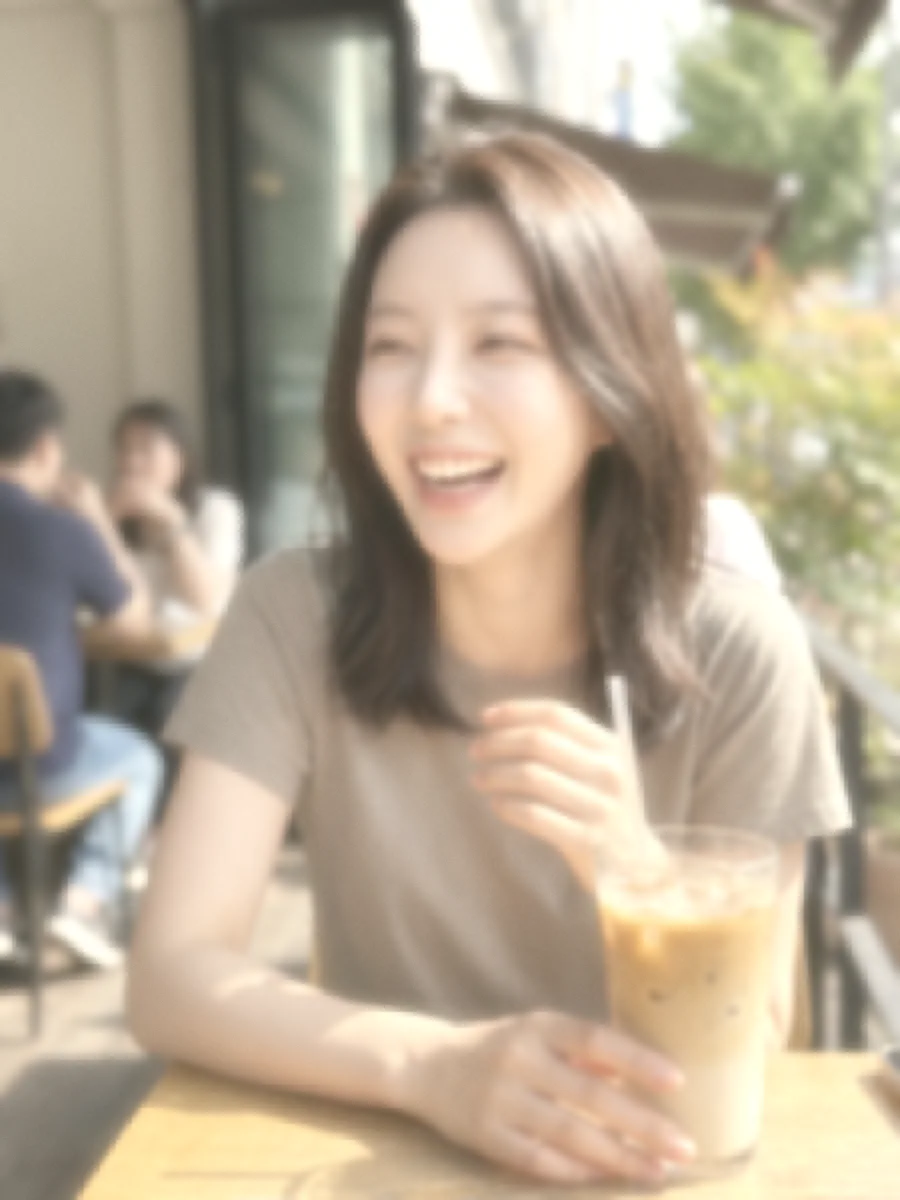
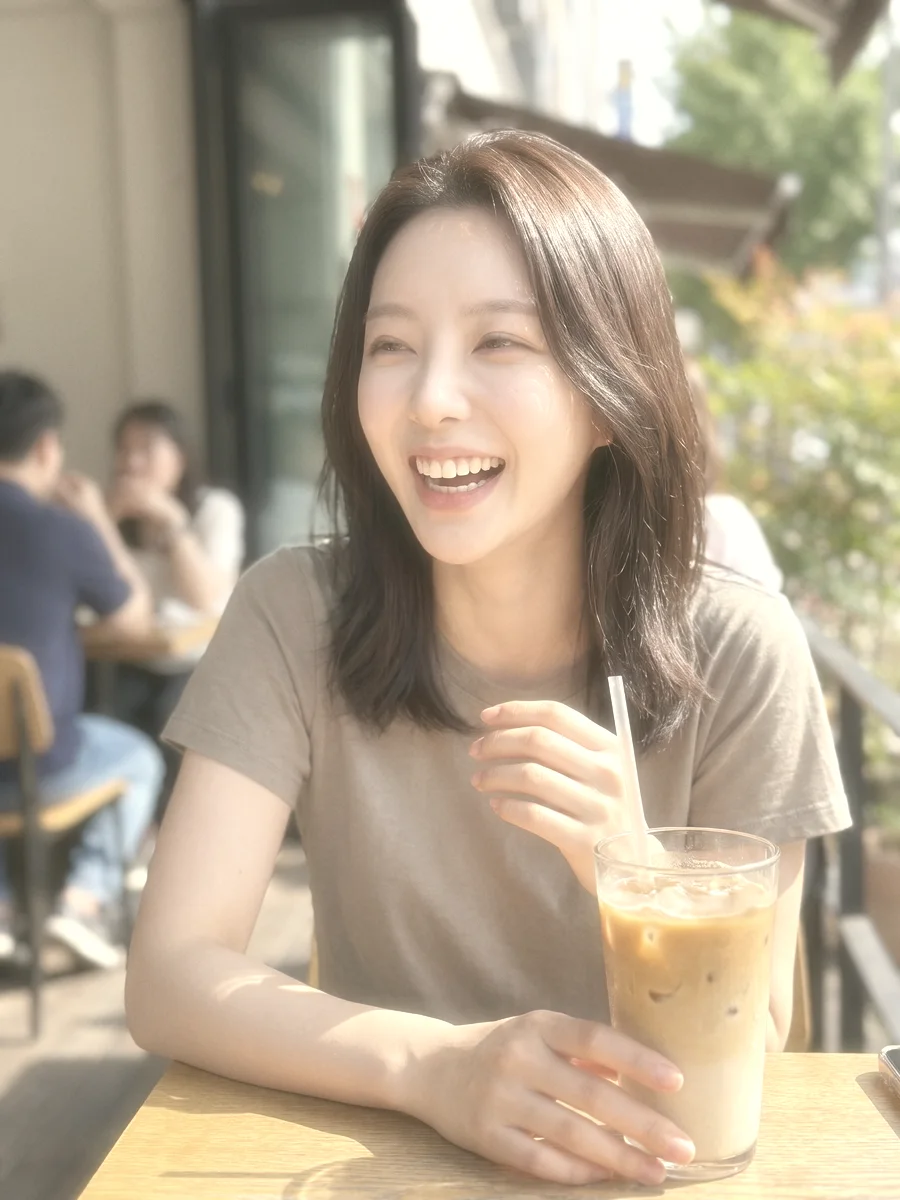
fix: 웹캠도 해상도 깎는 효과 제거(글로우·노이즈만); iOS 카메라 필터 줄이 필터 탭과 같은 묶음(효과 12종 빠져 있던 것); 플래시 스타 시안(숨김); sw v224; iOS 2.1.3 (89)
Claude-Session: https://claude.ai/code/session_01H2YvAQhUpTna7rrNEqetDc

diff --git a/src/PhotoEditor.jsx b/src/PhotoEditor.jsx
@@ -1147,7 +1147,7 @@ export default function PhotoEditor({ src, srcs, initialPresetKey = "none", init
                 // 글자 상자는 작아서 두 손가락을 다 얹을 수 없다 — 인스타도 캔버스 아무 데나 짚는다.
                 if (joinPinch(e)) return;
                 // 스포트라이트: 두 손가락 = 조명 크기(벌리면 크게, 오므리면 작게).
-                if (presetKey === "spotlight" && !dragRef.current) {
+                if ((presetKey === "spotlight" || presetKey === "flashstar") && !dragRef.current) {
                   const sp = spotPinchRef.current;
                   sp.pts.set(e.pointerId, { x: e.clientX, y: e.clientY });
                   try { e.currentTarget.setPointerCapture?.(e.pointerId); } catch (_) {}
@@ -1197,7 +1197,7 @@ export default function PhotoEditor({ src, srcs, initialPresetKey = "none", init
                 if (Date.now() - s.t > 320) return;                       // 길게 누름 = 원본 비교
                 if (Math.hypot(e.clientX - s.x, e.clientY - s.y) > 8) return;
                 if (s.hadSel) return;                                     // 선택 해제만
-                if (presetKey === "spotlight") {                          // 스포트라이트: 탭 = 조명 위치
+                if ((presetKey === "spotlight" || presetKey === "flashstar")) {                          // 스포트라이트: 탭 = 조명 위치
                   const r = e.currentTarget.getBoundingClientRect();
                   const pos = { x: Math.min(1, Math.max(0, (e.clientX - r.left) / r.width)), y: Math.min(1, Math.max(0, (e.clientY - r.top) / r.height)) };
                   hap.tap(); updateLook({ spotPos: pos }); return;
@@ -1323,7 +1323,7 @@ export default function PhotoEditor({ src, srcs, initialPresetKey = "none", init
                     // 프리셋 기본 효과까지 원탭 적용, 색감은 기본값(0.7 = 표준 룩)·효과는 1(프리셋 그대로)로 리셋
                     updateLook({ presetKey: p.key, fx: fxOf(p), strength: 0.7, fxAmt: 1 });
                     markFilterUsed(p.key);
-                    if (p.key === "spotlight") flashToast(getLang() === "ko" ? "탭하면 조명이 그 자리로, 두 손가락으로 크기를 바꿔요" : "Tap to move the spotlight, pinch to resize");
+                    if (p.key === "spotlight" || p.key === "flashstar") flashToast(getLang() === "ko" ? "탭하면 조명이 그 자리로, 두 손가락으로 크기를 바꿔요" : "Tap to move the spotlight, pinch to resize");
                   }}
                 >
                   <canvas

diff --git a/ios2/rimikimi/UI/Filter/CameraFilterTab.swift b/ios2/rimikimi/UI/Filter/CameraFilterTab.swift
@@ -18,6 +18,7 @@ struct CameraFilterTab: View {
     @State private var fxAmount: Double = 0.7   // 카메라 필터 강도 기본 70%(오너)
     struct FocusMark: Equatable { let id = UUID(); let point: CGPoint; var locked = false; var touched = Date(); var adjusting = false; var dim = false }
 
+    private static let groupIcon = ["phone": "iphone", "vintage": "film", "mood": "heart.circle", "fx": "sparkles"]
     private var phone: [String] { FilterTabView.groups.first { $0.key == "phone" }?.presets.map(\.key) ?? [] }
     private var analog: [String] { FilterTabView.groups.filter { $0.key != "phone" }.flatMap { $0.presets.map(\.key) } }
     private var vintage: [String] { FilterTabView.groups.first { $0.key == "vintage" }?.presets.map(\.key) ?? [] }
@@ -280,13 +281,12 @@ struct CameraFilterTab: View {
                     groupMark("star.fill", tint: Color.favoriteStar)
                     ForEach(favs.filter { $0 != LiveFilter.beautyKey }, id: \.self) { chip($0, Copy.filterName($0)) }
                 }
-                groupMark("iphone")
-                ForEach(phone, id: \.self) { chip($0, Copy.filterName($0)) }
-                // 폰카 / 빈티지 / 감성 — 편집기·필터 탭과 같은 3구분(오너 2026-10-12)
-                groupMark("film")
-                ForEach(vintage, id: \.self) { chip($0, Copy.filterName($0)) }
-                groupMark("heart.circle")
-                ForEach(mood, id: \.self) { chip($0, Copy.filterName($0)) }
+                // 필터 탭과 **같은 묶음·같은 순서**(오너 2026-10-27 "여기 필터랑 카메라 필터가 똑같아야") — 예전엔 효과 묶음이 빠져 있었다.
+                // 서버 카탈로그에 묶음이 늘면 여기도 같이 는다.
+                ForEach(FilterTabView.groups) { g in
+                    groupMark(Self.groupIcon[g.key] ?? "sparkles")
+                    ForEach(g.presets) { p in chip(p.key, Copy.filterName(p.key)) }
+                }
             }
             .padding(.horizontal, Spacing.page)
         }

diff --git a/ios2/rimikimi/UI/Camera/LiveFilter.swift b/ios2/rimikimi/UI/Camera/LiveFilter.swift
@@ -140,7 +140,7 @@ enum LiveFilter {
         // 폴더폰 · Y2K · 하두리(옛 웹캠) — 오너 2026-10-26. filters.js 와 같은 값.
         "folder": .init(temp: -10, tint: 6, ex: 0.18, con: 0.22, fade: 24, sat: -0.35, vib: -0.05, sh: [-6, 4, 10], hi: [-2, 2, 8], fx: .init(grain: 0.55, vignette: 0.55)),
         "y2k": .init(temp: -14, tint: 2, ex: 0.2, con: 0.45, sat: 0.3, vib: 0.1, sh: [-10, 0, 20], hi: [8, 0, 8], hsl: [.init(c: 225, w: 60, h: 0, s: 0.3, l: 0), .init(c: 180, w: 40, h: 0, s: 0.2, l: 0)], fx: .init(grain: 0.3, vignette: 1.0, glow: 0.8)),
-        "haduri": .init(temp: 12, tint: 8, ex: 0.18, con: -0.1, fade: 26, whitePull: 20, sat: -0.2, sh: [6, 6, -4], hi: [8, 6, -10], fx: .init(grain: 0.45, glow: 0.7, blur: 0.15, lowres: 0.004)),
+        "haduri": .init(temp: 12, tint: 8, ex: 0.18, con: -0.1, fade: 26, whitePull: 20, sat: -0.2, sh: [6, 6, -4], hi: [8, 6, -10], fx: .init(grain: 0.45, glow: 0.6)),
         // 효과 5종(오너 2026-10-27 "효과 10개") — filters.js 와 같은 값.
         "lightleak": .init(temp: 14, tint: 4, ex: 0.06, con: 0.08, fade: 10, whitePull: 6, sat: 0.06, vib: 0.1, sh: [6, 0, -4], hi: [14, 6, -6], fx: .init(grain: 0.3, leak: 1.8)),
         "softfocus": .init(temp: 4, tint: 4, ex: 0.1, con: -0.2, fade: 14, whitePull: 10, sat: -0.06, vib: 0.06, sh: [4, 2, 4], hi: [8, 6, 4], fx: .init(glow: 1.0, blur: 0.1)),

diff --git a/src/filters.js b/src/filters.js
@@ -166,7 +166,8 @@ export const FILM_PRESETS = [
     fx: { grain: 0.4, vignette: 0.2 } },
   { key: "haduri", ko: "웹캠", en: "Webcam '03", group: "vintage", // 옛날 웹캠(하두리) — 320×240·형광등 누런빛·피부 하얗게·뽀얀 글로우·노이즈(오너 2026-10-26)
     temp: 12, tint: 8,  ex: 0.18, con: -0.1, fade: 26, whitePull: 20, sat: -0.2,  vib: 0,    sh: [6, 6, -4],   hi: [8, 6, -10],
-    fx: { lowres: 0.004, blur: 0.15, glow: 0.7, grain: 0.45 } },
+    // 해상도는 건드리지 않는다(오너 10/27 폴더폰·웹캠) — 뽀얀 글로우·노이즈로만 웹캠 느낌.
+    fx: { glow: 0.6, grain: 0.45 } },
   /* ── 뷰티 v3(2026-10-27 리서치: 베리필름 milk·clean·sweet·butter·hush, SODA 물광, 트렌드 새틴 스킨·레트로 글로우). 피부 대역(hue 28±22)만 밝히고 붉은기↓. 색+glow 만, AI 보정 아님.
      hidden: 아직 배포 전(오너 "배포는 하지 말고") — 열 때 hidden 빼고 FILTER_GROUPS 에 beauty 추가 + 샘플 썸네일 생성. */
   {key: "bMilk",ko: "우유",en: "Milk",temp: -2,tint: 6,ex: 0.18,con: -0.26,fade: 22,whitePull: 20,sat: -0.2,vib: 0.04,sh: [6,4,10],hi: [8,6,10],hsl: [{c: 28,w: 22,h: 0,s: -0.15,l: 0.06}],fx: {glow: 0.6,grain: 0.12},group: "beauty",hidden: true},

diff --git a/rn/src/filters.ts b/rn/src/filters.ts
@@ -180,7 +180,7 @@ export const FILM_PRESETS: Preset[] = [
     fx: { grain: 0.4, vignette: 0.2 } },
   { key: "haduri", ko: "웹캠", en: "Webcam '03", group: "vintage", // 옛 웹캠 — 웹 filters.js 와 같은 색 값
     temp: 12, tint: 8,  ex: 0.18, con: -0.1, fade: 26, whitePull: 20, sat: -0.2,  vib: 0,    sh: [6, 6, -4],   hi: [8, 6, -10],
-    fx: { grain: 0.45, glow: 0.7, blur: 0.15 } },
+    fx: { grain: 0.45, glow: 0.6 } },
   { key: "lightleak", ko: "빛샘", en: "Light Leak", group: "mood", temp: 14, tint: 4, ex: 0.06, con: 0.08, fade: 10, whitePull: 6, sat: 0.06, vib: 0.1, sh: [6, 0, -4], hi: [14, 6, -6], fx: { leak: 1.8, grain: 0.3 } },
   { key: "softfocus", ko: "소프트 포커스", en: "Soft Focus", group: "mood", temp: 4, tint: 4, ex: 0.1, con: -0.2, fade: 14, whitePull: 10, sat: -0.06, vib: 0.06, sh: [4, 2, 4], hi: [8, 6, 4], fx: { glow: 1.0, blur: 0.1 } },
   { key: "spotlight", ko: "스포트라이트", en: "Spotlight", group: "mood", temp: 6, tint: 0, ex: -0.06, con: 0.32, fade: 0, whitePull: 0, sat: 0.04, vib: 0.06, sh: [-8, -8, -6], hi: [10, 8, 4], fx: { vignette: 2.6, grain: 0.15 } },

diff --git a/public/sw.js b/public/sw.js
@@ -10,7 +10,7 @@
 // 새 버전 배포 시: 아래 VERSION 만 올리면 됨.
 // ============================================================
 
-const VERSION = "v223";
+const VERSION = "v224";
 const STATIC_CACHE = `rimikimi-static-${VERSION}`;
 const THUMB_CACHE = `rimikimi-thumbs-${VERSION}`;
 const DATA_CACHE = `rimikimi-data-${VERSION}`;
